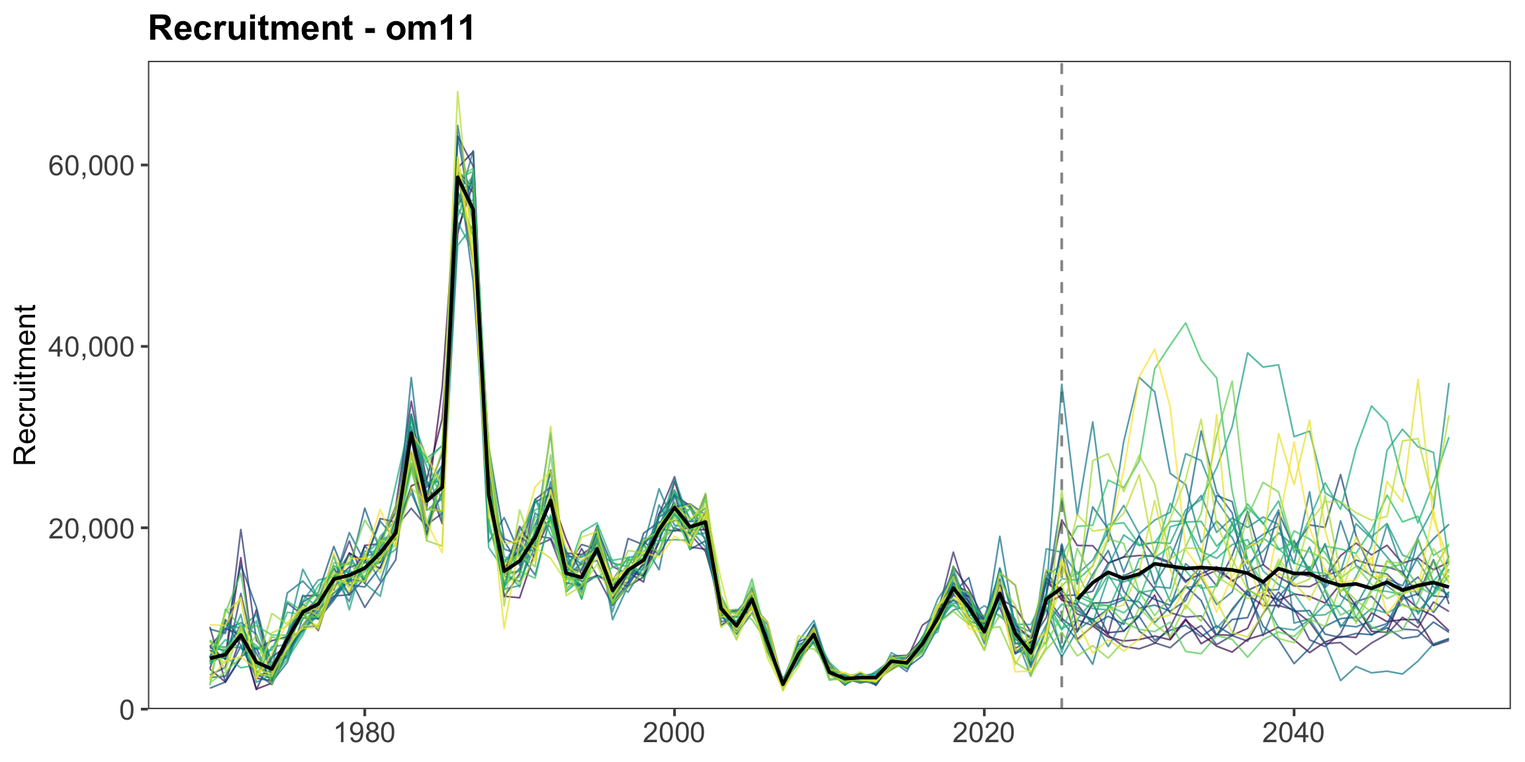
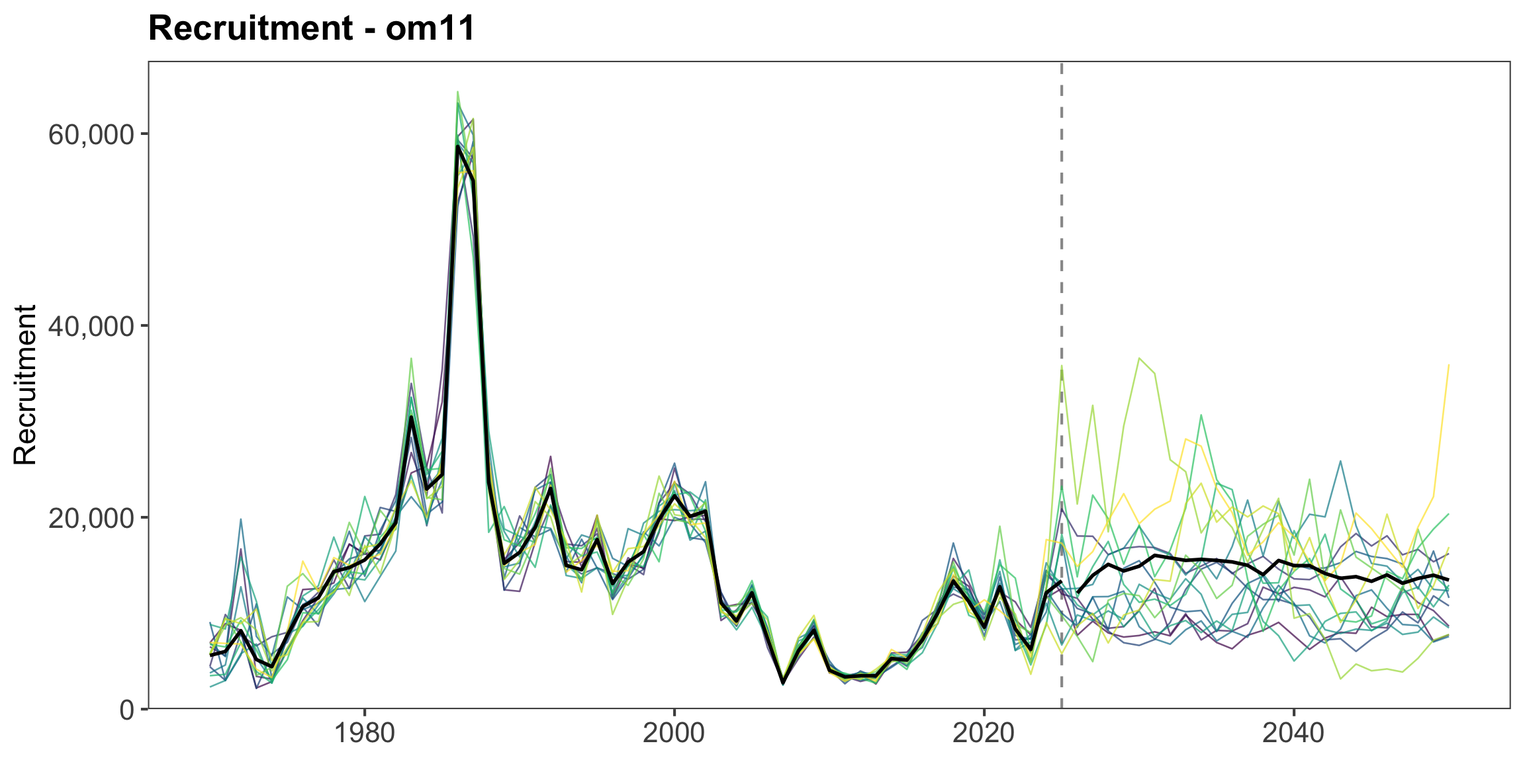
Use 15 recruitment worms in Paper 07

diff --git a/docs/SCW17-Paper-07-Projection-evaluations.html b/docs/SCW17-Paper-07-Projection-evaluations.html
@@ -634,17 +634,20 @@ Figure&nbsp;2: Historical exploitation metrics for the selected operating model.
 <div class="cell">
 <details class="code-fold">
 <summary>Show code</summary>
-<div class="code-copy-outer-scaffold"><div class="sourceCode cell-code" id="cb8"><pre class="sourceCode r code-with-copy"><code class="sourceCode r"><span id="cb8-1"><a href="#cb8-1" aria-hidden="true" tabindex="-1"></a><span class="fu">plot_qmd_recruitment</span>(rec_dt, rec_worms_dt, <span class="at">init_year=</span>INIT_YEAR,</span>
-<span id="cb8-2"><a href="#cb8-2" aria-hidden="true" tabindex="-1"></a>  <span class="at">final_year=</span>FINAL_YEAR, <span class="at">ref_om=</span>REF_OM)</span></code></pre></div><button title="Copy to Clipboard" class="code-copy-button"><i class="bi"></i></button></div>
+<div class="code-copy-outer-scaffold"><div class="sourceCode cell-code" id="cb8"><pre class="sourceCode r code-with-copy"><code class="sourceCode r"><span id="cb8-1"><a href="#cb8-1" aria-hidden="true" tabindex="-1"></a>rec_worm_plot_iters <span class="ot">&lt;-</span> <span class="fu">sort</span>(<span class="fu">unique</span>(rec_worms_dt<span class="sc">$</span>iter))[<span class="fu">seq_len</span>(<span class="fu">min</span>(<span class="dv">15</span>,</span>
+<span id="cb8-2"><a href="#cb8-2" aria-hidden="true" tabindex="-1"></a>  <span class="fu">length</span>(<span class="fu">unique</span>(rec_worms_dt<span class="sc">$</span>iter))))]</span>
+<span id="cb8-3"><a href="#cb8-3" aria-hidden="true" tabindex="-1"></a>rec_worms_plot_dt <span class="ot">&lt;-</span> <span class="fu">as.data.table</span>(rec_worms_dt)[iter <span class="sc">%in%</span> rec_worm_plot_iters]</span>
+<span id="cb8-4"><a href="#cb8-4" aria-hidden="true" tabindex="-1"></a><span class="fu">plot_qmd_recruitment</span>(rec_dt, rec_worms_plot_dt, <span class="at">init_year=</span>INIT_YEAR,</span>
+<span id="cb8-5"><a href="#cb8-5" aria-hidden="true" tabindex="-1"></a>  <span class="at">final_year=</span>FINAL_YEAR, <span class="at">ref_om=</span>REF_OM)</span></code></pre></div><button title="Copy to Clipboard" class="code-copy-button"><i class="bi"></i></button></div>
 </details>
 <div class="cell-output-display">
 <div id="fig-recruitment" class="quarto-float quarto-figure quarto-figure-center anchored">
 <figure class="quarto-float quarto-float-fig figure">
 <div aria-describedby="fig-recruitment-caption-0ceaefa1-69ba-4598-a22c-09a6ac19f8ca">
-<a href="SCW17-Paper-07-Projection-evaluations_files/figure-html/fig-recruitment-1.png" class="lightbox" data-gallery="quarto-lightbox-gallery-3" title="Figure&nbsp;3: Historical and future recruitment for the selected operating model. The future portion uses the F = 0 projection. Colored lines show 30 sampled MCMC draws."><img src="SCW17-Paper-07-Projection-evaluations_files/figure-html/fig-recruitment-1.png" class="img-fluid figure-img" width="1152"></a>
+<a href="SCW17-Paper-07-Projection-evaluations_files/figure-html/fig-recruitment-1.png" class="lightbox" data-gallery="quarto-lightbox-gallery-3" title="Figure&nbsp;3: Historical and future recruitment for the selected operating model. The future portion uses the F = 0 projection. Colored lines show 15 sampled MCMC draws."><img src="SCW17-Paper-07-Projection-evaluations_files/figure-html/fig-recruitment-1.png" class="img-fluid figure-img" width="1152"></a>
 </div>
 <figcaption class="quarto-float-caption-bottom quarto-float-caption quarto-float-fig" id="fig-recruitment-caption-0ceaefa1-69ba-4598-a22c-09a6ac19f8ca">
-Figure&nbsp;3: Historical and future recruitment for the selected operating model. The future portion uses the F = 0 projection. Colored lines show 30 sampled MCMC draws.
+Figure&nbsp;3: Historical and future recruitment for the selected operating model. The future portion uses the F = 0 projection. Colored lines show 15 sampled MCMC draws.
 </figcaption>
 </figure>
 </div>
@@ -1898,138 +1901,141 @@ Figure&nbsp;10: Sensitivity of projections to named historical selectivity block
 <span id="cb18-555"><a href="#cb18-555" aria-hidden="true" tabindex="-1"></a></span>
 <span id="cb18-558"><a href="#cb18-558" aria-hidden="true" tabindex="-1"></a><span class="in">```{r}</span></span>
 <span id="cb18-559"><a href="#cb18-559" aria-hidden="true" tabindex="-1"></a><span class="co">#| label: fig-recruitment</span></span>
-<span id="cb18-560"><a href="#cb18-560" aria-hidden="true" tabindex="-1"></a><span class="co">#| fig-cap: !expr paste("Historical and future recruitment for the selected operating model. The future portion uses the F = 0 projection. Colored lines show", length(unique(rec_worms_dt$iter)), "sampled MCMC draws.")</span></span>
+<span id="cb18-560"><a href="#cb18-560" aria-hidden="true" tabindex="-1"></a><span class="co">#| fig-cap: !expr paste("Historical and future recruitment for the selected operating model. The future portion uses the F = 0 projection. Colored lines show", length(unique(rec_worms_plot_dt$iter)), "sampled MCMC draws.")</span></span>
 <span id="cb18-561"><a href="#cb18-561" aria-hidden="true" tabindex="-1"></a><span class="co">#| fig-width: 12</span></span>
 <span id="cb18-562"><a href="#cb18-562" aria-hidden="true" tabindex="-1"></a><span class="co">#| fig-height: 6</span></span>
-<span id="cb18-563"><a href="#cb18-563" aria-hidden="true" tabindex="-1"></a><span class="fu">plot_qmd_recruitment</span>(rec_dt, rec_worms_dt, <span class="at">init_year=</span>INIT_YEAR,</span>
-<span id="cb18-564"><a href="#cb18-564" aria-hidden="true" tabindex="-1"></a>  <span class="at">final_year=</span>FINAL_YEAR, <span class="at">ref_om=</span>REF_OM)</span>
-<span id="cb18-565"><a href="#cb18-565" aria-hidden="true" tabindex="-1"></a><span class="in">```</span></span>
-<span id="cb18-566"><a href="#cb18-566" aria-hidden="true" tabindex="-1"></a></span>
-<span id="cb18-567"><a href="#cb18-567" aria-hidden="true" tabindex="-1"></a><span class="fu"># Future Fishing Pattern Scenarios</span></span>
-<span id="cb18-568"><a href="#cb18-568" aria-hidden="true" tabindex="-1"></a></span>
-<span id="cb18-569"><a href="#cb18-569" aria-hidden="true" tabindex="-1"></a>The main projection comparison applies the fishing-pattern controls over the projection horizon.</span>
-<span id="cb18-570"><a href="#cb18-570" aria-hidden="true" tabindex="-1"></a>The plot shows median trajectories by scenario for the cached projection summaries, including spawning biomass, fishing mortality, and catch where available.</span>
+<span id="cb18-563"><a href="#cb18-563" aria-hidden="true" tabindex="-1"></a>rec_worm_plot_iters <span class="ot">&lt;-</span> <span class="fu">sort</span>(<span class="fu">unique</span>(rec_worms_dt<span class="sc">$</span>iter))[<span class="fu">seq_len</span>(<span class="fu">min</span>(<span class="dv">15</span>,</span>
+<span id="cb18-564"><a href="#cb18-564" aria-hidden="true" tabindex="-1"></a>  <span class="fu">length</span>(<span class="fu">unique</span>(rec_worms_dt<span class="sc">$</span>iter))))]</span>
+<span id="cb18-565"><a href="#cb18-565" aria-hidden="true" tabindex="-1"></a>rec_worms_plot_dt <span class="ot">&lt;-</span> <span class="fu">as.data.table</span>(rec_worms_dt)[iter <span class="sc">%in%</span> rec_worm_plot_iters]</span>
+<span id="cb18-566"><a href="#cb18-566" aria-hidden="true" tabindex="-1"></a><span class="fu">plot_qmd_recruitment</span>(rec_dt, rec_worms_plot_dt, <span class="at">init_year=</span>INIT_YEAR,</span>
+<span id="cb18-567"><a href="#cb18-567" aria-hidden="true" tabindex="-1"></a>  <span class="at">final_year=</span>FINAL_YEAR, <span class="at">ref_om=</span>REF_OM)</span>
+<span id="cb18-568"><a href="#cb18-568" aria-hidden="true" tabindex="-1"></a><span class="in">```</span></span>
+<span id="cb18-569"><a href="#cb18-569" aria-hidden="true" tabindex="-1"></a></span>
+<span id="cb18-570"><a href="#cb18-570" aria-hidden="true" tabindex="-1"></a><span class="fu"># Future Fishing Pattern Scenarios</span></span>
 <span id="cb18-571"><a href="#cb18-571" aria-hidden="true" tabindex="-1"></a></span>
-<span id="cb18-574"><a href="#cb18-574" aria-hidden="true" tabindex="-1"></a><span class="in">```{r}</span></span>
-<span id="cb18-575"><a href="#cb18-575" aria-hidden="true" tabindex="-1"></a><span class="co">#| label: fig-fixed-scenarios</span></span>
-<span id="cb18-576"><a href="#cb18-576" aria-hidden="true" tabindex="-1"></a><span class="co">#| fig-cap: !expr scenario_caption()</span></span>
-<span id="cb18-577"><a href="#cb18-577" aria-hidden="true" tabindex="-1"></a><span class="co">#| fig-width: 14</span></span>
-<span id="cb18-578"><a href="#cb18-578" aria-hidden="true" tabindex="-1"></a><span class="co">#| fig-height: 10</span></span>
-<span id="cb18-579"><a href="#cb18-579" aria-hidden="true" tabindex="-1"></a>futs_excluded <span class="ot">&lt;-</span> <span class="fu">median_fbar_exclusions</span>(</span>
-<span id="cb18-580"><a href="#cb18-580" aria-hidden="true" tabindex="-1"></a>  <span class="fu">as.data.table</span>(futs_dt)[year <span class="sc">&gt;</span> INIT_YEAR], <span class="st">"scenario"</span>)</span>
-<span id="cb18-581"><a href="#cb18-581" aria-hidden="true" tabindex="-1"></a>futs_plot_dt <span class="ot">&lt;-</span> <span class="fu">drop_group_stock</span>(futs_dt, futs_excluded, <span class="st">"scenario"</span>)</span>
-<span id="cb18-582"><a href="#cb18-582" aria-hidden="true" tabindex="-1"></a></span>
-<span id="cb18-583"><a href="#cb18-583" aria-hidden="true" tabindex="-1"></a><span class="fu">plot_qmd_scenarios</span>(futs_plot_dt, INIT_YEAR, sbmsy_ref, fmsy_ref,</span>
-<span id="cb18-584"><a href="#cb18-584" aria-hidden="true" tabindex="-1"></a>  <span class="at">final_year=</span>FINAL_YEAR, <span class="at">ref_om=</span>REF_OM)</span>
-<span id="cb18-585"><a href="#cb18-585" aria-hidden="true" tabindex="-1"></a><span class="in">```</span></span>
-<span id="cb18-586"><a href="#cb18-586" aria-hidden="true" tabindex="-1"></a></span>
-<span id="cb18-587"><a href="#cb18-587" aria-hidden="true" tabindex="-1"></a>The terminal-status plot shows the distribution of projected spawning biomass relative to SBMSY in the final projection year.</span>
-<span id="cb18-588"><a href="#cb18-588" aria-hidden="true" tabindex="-1"></a>This gives a compact comparison of scenario risk at the end of the projection horizon.</span>
+<span id="cb18-572"><a href="#cb18-572" aria-hidden="true" tabindex="-1"></a>The main projection comparison applies the fishing-pattern controls over the projection horizon.</span>
+<span id="cb18-573"><a href="#cb18-573" aria-hidden="true" tabindex="-1"></a>The plot shows median trajectories by scenario for the cached projection summaries, including spawning biomass, fishing mortality, and catch where available.</span>
+<span id="cb18-574"><a href="#cb18-574" aria-hidden="true" tabindex="-1"></a></span>
+<span id="cb18-577"><a href="#cb18-577" aria-hidden="true" tabindex="-1"></a><span class="in">```{r}</span></span>
+<span id="cb18-578"><a href="#cb18-578" aria-hidden="true" tabindex="-1"></a><span class="co">#| label: fig-fixed-scenarios</span></span>
+<span id="cb18-579"><a href="#cb18-579" aria-hidden="true" tabindex="-1"></a><span class="co">#| fig-cap: !expr scenario_caption()</span></span>
+<span id="cb18-580"><a href="#cb18-580" aria-hidden="true" tabindex="-1"></a><span class="co">#| fig-width: 14</span></span>
+<span id="cb18-581"><a href="#cb18-581" aria-hidden="true" tabindex="-1"></a><span class="co">#| fig-height: 10</span></span>
+<span id="cb18-582"><a href="#cb18-582" aria-hidden="true" tabindex="-1"></a>futs_excluded <span class="ot">&lt;-</span> <span class="fu">median_fbar_exclusions</span>(</span>
+<span id="cb18-583"><a href="#cb18-583" aria-hidden="true" tabindex="-1"></a>  <span class="fu">as.data.table</span>(futs_dt)[year <span class="sc">&gt;</span> INIT_YEAR], <span class="st">"scenario"</span>)</span>
+<span id="cb18-584"><a href="#cb18-584" aria-hidden="true" tabindex="-1"></a>futs_plot_dt <span class="ot">&lt;-</span> <span class="fu">drop_group_stock</span>(futs_dt, futs_excluded, <span class="st">"scenario"</span>)</span>
+<span id="cb18-585"><a href="#cb18-585" aria-hidden="true" tabindex="-1"></a></span>
+<span id="cb18-586"><a href="#cb18-586" aria-hidden="true" tabindex="-1"></a><span class="fu">plot_qmd_scenarios</span>(futs_plot_dt, INIT_YEAR, sbmsy_ref, fmsy_ref,</span>
+<span id="cb18-587"><a href="#cb18-587" aria-hidden="true" tabindex="-1"></a>  <span class="at">final_year=</span>FINAL_YEAR, <span class="at">ref_om=</span>REF_OM)</span>
+<span id="cb18-588"><a href="#cb18-588" aria-hidden="true" tabindex="-1"></a><span class="in">```</span></span>
 <span id="cb18-589"><a href="#cb18-589" aria-hidden="true" tabindex="-1"></a></span>
-<span id="cb18-592"><a href="#cb18-592" aria-hidden="true" tabindex="-1"></a><span class="in">```{r}</span></span>
-<span id="cb18-593"><a href="#cb18-593" aria-hidden="true" tabindex="-1"></a><span class="co">#| label: fig-terminal-status</span></span>
-<span id="cb18-594"><a href="#cb18-594" aria-hidden="true" tabindex="-1"></a><span class="co">#| fig-cap: !expr paste("Distribution of SSB / SBMSY in", FINAL_YEAR, "under each projection scenario.", N_ITER, "iterations. The dotted line marks SBMSY.", filter_note)</span></span>
-<span id="cb18-595"><a href="#cb18-595" aria-hidden="true" tabindex="-1"></a><span class="co">#| fig-width: 12</span></span>
-<span id="cb18-596"><a href="#cb18-596" aria-hidden="true" tabindex="-1"></a><span class="co">#| fig-height: 6</span></span>
-<span id="cb18-597"><a href="#cb18-597" aria-hidden="true" tabindex="-1"></a>status_plot_dt <span class="ot">&lt;-</span> <span class="fu">drop_fbar_iterations</span>(status_dt, futs_fbar_max_dt, <span class="st">"scenario"</span>)</span>
-<span id="cb18-598"><a href="#cb18-598" aria-hidden="true" tabindex="-1"></a><span class="fu">plot_qmd_status</span>(status_plot_dt, FINAL_YEAR, <span class="at">n_iter=</span>N_ITER, <span class="at">ref_om=</span>REF_OM)</span>
-<span id="cb18-599"><a href="#cb18-599" aria-hidden="true" tabindex="-1"></a><span class="in">```</span></span>
-<span id="cb18-600"><a href="#cb18-600" aria-hidden="true" tabindex="-1"></a></span>
-<span id="cb18-603"><a href="#cb18-603" aria-hidden="true" tabindex="-1"></a><span class="in">```{r}</span></span>
-<span id="cb18-604"><a href="#cb18-604" aria-hidden="true" tabindex="-1"></a><span class="co">#| label: fig-terminal-tradeoff</span></span>
-<span id="cb18-605"><a href="#cb18-605" aria-hidden="true" tabindex="-1"></a><span class="co">#| fig-cap: !expr paste("Median catch and SSB / SBMSY in", FINAL_YEAR, "under each projection scenario. Points show scenario medians; bars show 90% intervals. The dotted line marks SBMSY.", filter_note)</span></span>
-<span id="cb18-606"><a href="#cb18-606" aria-hidden="true" tabindex="-1"></a><span class="co">#| fig-width: 10</span></span>
-<span id="cb18-607"><a href="#cb18-607" aria-hidden="true" tabindex="-1"></a><span class="co">#| fig-height: 7</span></span>
-<span id="cb18-608"><a href="#cb18-608" aria-hidden="true" tabindex="-1"></a><span class="fu">plot_qmd_tradeoff</span>(status_plot_dt, FINAL_YEAR, <span class="at">ref_om=</span>REF_OM)</span>
-<span id="cb18-609"><a href="#cb18-609" aria-hidden="true" tabindex="-1"></a><span class="in">```</span></span>
-<span id="cb18-610"><a href="#cb18-610" aria-hidden="true" tabindex="-1"></a></span>
-<span id="cb18-613"><a href="#cb18-613" aria-hidden="true" tabindex="-1"></a><span class="in">```{r}</span></span>
-<span id="cb18-614"><a href="#cb18-614" aria-hidden="true" tabindex="-1"></a><span class="co">#| label: fig-terminal-tradeoff-ssb</span></span>
-<span id="cb18-615"><a href="#cb18-615" aria-hidden="true" tabindex="-1"></a><span class="co">#| fig-cap: !expr paste("Median catch and SSB in", FINAL_YEAR, "under each projection scenario. Points show scenario medians; bars show 90% intervals. The dotted line marks SBMSY.", filter_note)</span></span>
-<span id="cb18-616"><a href="#cb18-616" aria-hidden="true" tabindex="-1"></a><span class="co">#| fig-width: 10</span></span>
-<span id="cb18-617"><a href="#cb18-617" aria-hidden="true" tabindex="-1"></a><span class="co">#| fig-height: 7</span></span>
-<span id="cb18-618"><a href="#cb18-618" aria-hidden="true" tabindex="-1"></a><span class="fu">plot_qmd_tradeoff</span>(status_plot_dt, FINAL_YEAR, <span class="at">ref_om=</span>REF_OM,</span>
-<span id="cb18-619"><a href="#cb18-619" aria-hidden="true" tabindex="-1"></a>  <span class="at">x_metric=</span><span class="st">"ssb"</span>)</span>
-<span id="cb18-620"><a href="#cb18-620" aria-hidden="true" tabindex="-1"></a><span class="in">```</span></span>
-<span id="cb18-621"><a href="#cb18-621" aria-hidden="true" tabindex="-1"></a></span>
-<span id="cb18-624"><a href="#cb18-624" aria-hidden="true" tabindex="-1"></a><span class="in">```{r}</span></span>
-<span id="cb18-625"><a href="#cb18-625" aria-hidden="true" tabindex="-1"></a><span class="co">#| label: fig-catch-2026</span></span>
-<span id="cb18-626"><a href="#cb18-626" aria-hidden="true" tabindex="-1"></a><span class="co">#| fig-cap: !expr paste("Distribution of catch in 2026 under each projection scenario.", N_ITER, "iterations.", filter_note)</span></span>
-<span id="cb18-627"><a href="#cb18-627" aria-hidden="true" tabindex="-1"></a><span class="co">#| fig-width: 12</span></span>
-<span id="cb18-628"><a href="#cb18-628" aria-hidden="true" tabindex="-1"></a><span class="co">#| fig-height: 6</span></span>
-<span id="cb18-629"><a href="#cb18-629" aria-hidden="true" tabindex="-1"></a>catch_2026_plot_dt <span class="ot">&lt;-</span> <span class="fu">drop_fbar_iterations</span>(catch_2026_dt,</span>
-<span id="cb18-630"><a href="#cb18-630" aria-hidden="true" tabindex="-1"></a>  futs_fbar_max_dt, <span class="st">"scenario"</span>)</span>
-<span id="cb18-631"><a href="#cb18-631" aria-hidden="true" tabindex="-1"></a><span class="fu">plot_qmd_catch_distribution</span>(catch_2026_plot_dt, <span class="dv">2026</span>,</span>
-<span id="cb18-632"><a href="#cb18-632" aria-hidden="true" tabindex="-1"></a>  <span class="at">n_iter=</span>N_ITER, <span class="at">ref_om=</span>REF_OM)</span>
-<span id="cb18-633"><a href="#cb18-633" aria-hidden="true" tabindex="-1"></a><span class="in">```</span></span>
-<span id="cb18-634"><a href="#cb18-634" aria-hidden="true" tabindex="-1"></a></span>
-<span id="cb18-635"><a href="#cb18-635" aria-hidden="true" tabindex="-1"></a><span class="fu"># Selectivity Window Sensitivity</span></span>
-<span id="cb18-636"><a href="#cb18-636" aria-hidden="true" tabindex="-1"></a></span>
-<span id="cb18-637"><a href="#cb18-637" aria-hidden="true" tabindex="-1"></a>The selectivity-window sensitivity analysis projects at FMSY while replacing future selectivity with averages over alternative terminal-year windows.</span>
-<span id="cb18-638"><a href="#cb18-638" aria-hidden="true" tabindex="-1"></a>For example, a three-year window uses the mean selectivity pattern from the final three historical years.</span>
+<span id="cb18-590"><a href="#cb18-590" aria-hidden="true" tabindex="-1"></a>The terminal-status plot shows the distribution of projected spawning biomass relative to SBMSY in the final projection year.</span>
+<span id="cb18-591"><a href="#cb18-591" aria-hidden="true" tabindex="-1"></a>This gives a compact comparison of scenario risk at the end of the projection horizon.</span>
+<span id="cb18-592"><a href="#cb18-592" aria-hidden="true" tabindex="-1"></a></span>
+<span id="cb18-595"><a href="#cb18-595" aria-hidden="true" tabindex="-1"></a><span class="in">```{r}</span></span>
+<span id="cb18-596"><a href="#cb18-596" aria-hidden="true" tabindex="-1"></a><span class="co">#| label: fig-terminal-status</span></span>
+<span id="cb18-597"><a href="#cb18-597" aria-hidden="true" tabindex="-1"></a><span class="co">#| fig-cap: !expr paste("Distribution of SSB / SBMSY in", FINAL_YEAR, "under each projection scenario.", N_ITER, "iterations. The dotted line marks SBMSY.", filter_note)</span></span>
+<span id="cb18-598"><a href="#cb18-598" aria-hidden="true" tabindex="-1"></a><span class="co">#| fig-width: 12</span></span>
+<span id="cb18-599"><a href="#cb18-599" aria-hidden="true" tabindex="-1"></a><span class="co">#| fig-height: 6</span></span>
+<span id="cb18-600"><a href="#cb18-600" aria-hidden="true" tabindex="-1"></a>status_plot_dt <span class="ot">&lt;-</span> <span class="fu">drop_fbar_iterations</span>(status_dt, futs_fbar_max_dt, <span class="st">"scenario"</span>)</span>
+<span id="cb18-601"><a href="#cb18-601" aria-hidden="true" tabindex="-1"></a><span class="fu">plot_qmd_status</span>(status_plot_dt, FINAL_YEAR, <span class="at">n_iter=</span>N_ITER, <span class="at">ref_om=</span>REF_OM)</span>
+<span id="cb18-602"><a href="#cb18-602" aria-hidden="true" tabindex="-1"></a><span class="in">```</span></span>
+<span id="cb18-603"><a href="#cb18-603" aria-hidden="true" tabindex="-1"></a></span>
+<span id="cb18-606"><a href="#cb18-606" aria-hidden="true" tabindex="-1"></a><span class="in">```{r}</span></span>
+<span id="cb18-607"><a href="#cb18-607" aria-hidden="true" tabindex="-1"></a><span class="co">#| label: fig-terminal-tradeoff</span></span>
+<span id="cb18-608"><a href="#cb18-608" aria-hidden="true" tabindex="-1"></a><span class="co">#| fig-cap: !expr paste("Median catch and SSB / SBMSY in", FINAL_YEAR, "under each projection scenario. Points show scenario medians; bars show 90% intervals. The dotted line marks SBMSY.", filter_note)</span></span>
+<span id="cb18-609"><a href="#cb18-609" aria-hidden="true" tabindex="-1"></a><span class="co">#| fig-width: 10</span></span>
+<span id="cb18-610"><a href="#cb18-610" aria-hidden="true" tabindex="-1"></a><span class="co">#| fig-height: 7</span></span>
+<span id="cb18-611"><a href="#cb18-611" aria-hidden="true" tabindex="-1"></a><span class="fu">plot_qmd_tradeoff</span>(status_plot_dt, FINAL_YEAR, <span class="at">ref_om=</span>REF_OM)</span>
+<span id="cb18-612"><a href="#cb18-612" aria-hidden="true" tabindex="-1"></a><span class="in">```</span></span>
+<span id="cb18-613"><a href="#cb18-613" aria-hidden="true" tabindex="-1"></a></span>
+<span id="cb18-616"><a href="#cb18-616" aria-hidden="true" tabindex="-1"></a><span class="in">```{r}</span></span>
+<span id="cb18-617"><a href="#cb18-617" aria-hidden="true" tabindex="-1"></a><span class="co">#| label: fig-terminal-tradeoff-ssb</span></span>
+<span id="cb18-618"><a href="#cb18-618" aria-hidden="true" tabindex="-1"></a><span class="co">#| fig-cap: !expr paste("Median catch and SSB in", FINAL_YEAR, "under each projection scenario. Points show scenario medians; bars show 90% intervals. The dotted line marks SBMSY.", filter_note)</span></span>
+<span id="cb18-619"><a href="#cb18-619" aria-hidden="true" tabindex="-1"></a><span class="co">#| fig-width: 10</span></span>
+<span id="cb18-620"><a href="#cb18-620" aria-hidden="true" tabindex="-1"></a><span class="co">#| fig-height: 7</span></span>
+<span id="cb18-621"><a href="#cb18-621" aria-hidden="true" tabindex="-1"></a><span class="fu">plot_qmd_tradeoff</span>(status_plot_dt, FINAL_YEAR, <span class="at">ref_om=</span>REF_OM,</span>
+<span id="cb18-622"><a href="#cb18-622" aria-hidden="true" tabindex="-1"></a>  <span class="at">x_metric=</span><span class="st">"ssb"</span>)</span>
+<span id="cb18-623"><a href="#cb18-623" aria-hidden="true" tabindex="-1"></a><span class="in">```</span></span>
+<span id="cb18-624"><a href="#cb18-624" aria-hidden="true" tabindex="-1"></a></span>
+<span id="cb18-627"><a href="#cb18-627" aria-hidden="true" tabindex="-1"></a><span class="in">```{r}</span></span>
+<span id="cb18-628"><a href="#cb18-628" aria-hidden="true" tabindex="-1"></a><span class="co">#| label: fig-catch-2026</span></span>
+<span id="cb18-629"><a href="#cb18-629" aria-hidden="true" tabindex="-1"></a><span class="co">#| fig-cap: !expr paste("Distribution of catch in 2026 under each projection scenario.", N_ITER, "iterations.", filter_note)</span></span>
+<span id="cb18-630"><a href="#cb18-630" aria-hidden="true" tabindex="-1"></a><span class="co">#| fig-width: 12</span></span>
+<span id="cb18-631"><a href="#cb18-631" aria-hidden="true" tabindex="-1"></a><span class="co">#| fig-height: 6</span></span>
+<span id="cb18-632"><a href="#cb18-632" aria-hidden="true" tabindex="-1"></a>catch_2026_plot_dt <span class="ot">&lt;-</span> <span class="fu">drop_fbar_iterations</span>(catch_2026_dt,</span>
+<span id="cb18-633"><a href="#cb18-633" aria-hidden="true" tabindex="-1"></a>  futs_fbar_max_dt, <span class="st">"scenario"</span>)</span>
+<span id="cb18-634"><a href="#cb18-634" aria-hidden="true" tabindex="-1"></a><span class="fu">plot_qmd_catch_distribution</span>(catch_2026_plot_dt, <span class="dv">2026</span>,</span>
+<span id="cb18-635"><a href="#cb18-635" aria-hidden="true" tabindex="-1"></a>  <span class="at">n_iter=</span>N_ITER, <span class="at">ref_om=</span>REF_OM)</span>
+<span id="cb18-636"><a href="#cb18-636" aria-hidden="true" tabindex="-1"></a><span class="in">```</span></span>
+<span id="cb18-637"><a href="#cb18-637" aria-hidden="true" tabindex="-1"></a></span>
+<span id="cb18-638"><a href="#cb18-638" aria-hidden="true" tabindex="-1"></a><span class="fu"># Selectivity Window Sensitivity</span></span>
 <span id="cb18-639"><a href="#cb18-639" aria-hidden="true" tabindex="-1"></a></span>
-<span id="cb18-642"><a href="#cb18-642" aria-hidden="true" tabindex="-1"></a><span class="in">```{r}</span></span>
-<span id="cb18-643"><a href="#cb18-643" aria-hidden="true" tabindex="-1"></a><span class="co">#| label: tbl-selectivity-windows</span></span>
-<span id="cb18-644"><a href="#cb18-644" aria-hidden="true" tabindex="-1"></a><span class="co">#| tbl-cap: "Terminal-year selectivity averaging windows."</span></span>
-<span id="cb18-645"><a href="#cb18-645" aria-hidden="true" tabindex="-1"></a>window_tbl <span class="ot">&lt;-</span> <span class="fu">data.frame</span>(</span>
-<span id="cb18-646"><a href="#cb18-646" aria-hidden="true" tabindex="-1"></a>  <span class="at">window_years =</span> SELEX_WINDOWS,</span>
-<span id="cb18-647"><a href="#cb18-647" aria-hidden="true" tabindex="-1"></a>  <span class="at">description =</span> <span class="fu">paste</span>(<span class="st">"Mean selectivity over the final"</span>, SELEX_WINDOWS, <span class="st">"historical years"</span>)</span>
-<span id="cb18-648"><a href="#cb18-648" aria-hidden="true" tabindex="-1"></a>)</span>
-<span id="cb18-649"><a href="#cb18-649" aria-hidden="true" tabindex="-1"></a></span>
-<span id="cb18-650"><a href="#cb18-650" aria-hidden="true" tabindex="-1"></a><span class="fu">kable</span>(window_tbl, <span class="at">col.names=</span><span class="fu">c</span>(<span class="st">"Window (years)"</span>, <span class="st">"Projection assumption"</span>))</span>
-<span id="cb18-651"><a href="#cb18-651" aria-hidden="true" tabindex="-1"></a><span class="in">```</span></span>
+<span id="cb18-640"><a href="#cb18-640" aria-hidden="true" tabindex="-1"></a>The selectivity-window sensitivity analysis projects at FMSY while replacing future selectivity with averages over alternative terminal-year windows.</span>
+<span id="cb18-641"><a href="#cb18-641" aria-hidden="true" tabindex="-1"></a>For example, a three-year window uses the mean selectivity pattern from the final three historical years.</span>
+<span id="cb18-642"><a href="#cb18-642" aria-hidden="true" tabindex="-1"></a></span>
+<span id="cb18-645"><a href="#cb18-645" aria-hidden="true" tabindex="-1"></a><span class="in">```{r}</span></span>
+<span id="cb18-646"><a href="#cb18-646" aria-hidden="true" tabindex="-1"></a><span class="co">#| label: tbl-selectivity-windows</span></span>
+<span id="cb18-647"><a href="#cb18-647" aria-hidden="true" tabindex="-1"></a><span class="co">#| tbl-cap: "Terminal-year selectivity averaging windows."</span></span>
+<span id="cb18-648"><a href="#cb18-648" aria-hidden="true" tabindex="-1"></a>window_tbl <span class="ot">&lt;-</span> <span class="fu">data.frame</span>(</span>
+<span id="cb18-649"><a href="#cb18-649" aria-hidden="true" tabindex="-1"></a>  <span class="at">window_years =</span> SELEX_WINDOWS,</span>
+<span id="cb18-650"><a href="#cb18-650" aria-hidden="true" tabindex="-1"></a>  <span class="at">description =</span> <span class="fu">paste</span>(<span class="st">"Mean selectivity over the final"</span>, SELEX_WINDOWS, <span class="st">"historical years"</span>)</span>
+<span id="cb18-651"><a href="#cb18-651" aria-hidden="true" tabindex="-1"></a>)</span>
 <span id="cb18-652"><a href="#cb18-652" aria-hidden="true" tabindex="-1"></a></span>
-<span id="cb18-655"><a href="#cb18-655" aria-hidden="true" tabindex="-1"></a><span class="in">```{r}</span></span>
-<span id="cb18-656"><a href="#cb18-656" aria-hidden="true" tabindex="-1"></a><span class="co">#| label: fig-selectivity-window-sensitivity</span></span>
-<span id="cb18-657"><a href="#cb18-657" aria-hidden="true" tabindex="-1"></a><span class="co">#| fig-cap: !expr sensitivity_caption("Sensitivity of projections to the terminal-year selectivity averaging window.")</span></span>
-<span id="cb18-658"><a href="#cb18-658" aria-hidden="true" tabindex="-1"></a><span class="co">#| fig-width: 14</span></span>
-<span id="cb18-659"><a href="#cb18-659" aria-hidden="true" tabindex="-1"></a><span class="co">#| fig-height: 8</span></span>
-<span id="cb18-660"><a href="#cb18-660" aria-hidden="true" tabindex="-1"></a>selex_excluded <span class="ot">&lt;-</span> selex_fbar_max_dt[</span>
-<span id="cb18-661"><a href="#cb18-661" aria-hidden="true" tabindex="-1"></a>  , .(<span class="at">max_median_fbar=</span><span class="fu">median</span>(max_fbar, <span class="at">na.rm=</span><span class="cn">TRUE</span>)),</span>
-<span id="cb18-662"><a href="#cb18-662" aria-hidden="true" tabindex="-1"></a>  by<span class="ot">=</span>.(window, stock)][max_median_fbar <span class="sc">&gt;</span> FBAR_MAX]</span>
-<span id="cb18-663"><a href="#cb18-663" aria-hidden="true" tabindex="-1"></a>selex_plot_dt <span class="ot">&lt;-</span> <span class="fu">drop_group_stock</span>(selex_dt, selex_excluded, <span class="st">"window"</span>)</span>
-<span id="cb18-664"><a href="#cb18-664" aria-hidden="true" tabindex="-1"></a></span>
-<span id="cb18-665"><a href="#cb18-665" aria-hidden="true" tabindex="-1"></a><span class="fu">plot_qmd_sensitivity</span>(selex_plot_dt, <span class="at">group_col=</span><span class="st">"window"</span>, <span class="at">group_lab=</span><span class="st">"Avg. years"</span>,</span>
-<span id="cb18-666"><a href="#cb18-666" aria-hidden="true" tabindex="-1"></a>  <span class="at">init_year=</span>INIT_YEAR, <span class="at">sbmsy_ref=</span>sbmsy_ref, <span class="at">fmsy_ref=</span>fmsy_ref,</span>
-<span id="cb18-667"><a href="#cb18-667" aria-hidden="true" tabindex="-1"></a>  <span class="at">ref_om=</span>REF_OM,</span>
-<span id="cb18-668"><a href="#cb18-668" aria-hidden="true" tabindex="-1"></a>  <span class="at">title_prefix=</span><span class="st">"Selectivity averaging window sensitivity"</span>)</span>
-<span id="cb18-669"><a href="#cb18-669" aria-hidden="true" tabindex="-1"></a><span class="in">```</span></span>
-<span id="cb18-670"><a href="#cb18-670" aria-hidden="true" tabindex="-1"></a></span>
-<span id="cb18-671"><a href="#cb18-671" aria-hidden="true" tabindex="-1"></a><span class="fu"># Selectivity Block Sensitivity</span></span>
-<span id="cb18-672"><a href="#cb18-672" aria-hidden="true" tabindex="-1"></a></span>
-<span id="cb18-673"><a href="#cb18-673" aria-hidden="true" tabindex="-1"></a>The named-block sensitivity analysis is similar to the rolling-window analysis, but the averaged selectivity pattern comes from specified historical year blocks.</span>
-<span id="cb18-674"><a href="#cb18-674" aria-hidden="true" tabindex="-1"></a>This is useful when historical periods represent different fishery or stock-selectivity regimes.</span>
+<span id="cb18-653"><a href="#cb18-653" aria-hidden="true" tabindex="-1"></a><span class="fu">kable</span>(window_tbl, <span class="at">col.names=</span><span class="fu">c</span>(<span class="st">"Window (years)"</span>, <span class="st">"Projection assumption"</span>))</span>
+<span id="cb18-654"><a href="#cb18-654" aria-hidden="true" tabindex="-1"></a><span class="in">```</span></span>
+<span id="cb18-655"><a href="#cb18-655" aria-hidden="true" tabindex="-1"></a></span>
+<span id="cb18-658"><a href="#cb18-658" aria-hidden="true" tabindex="-1"></a><span class="in">```{r}</span></span>
+<span id="cb18-659"><a href="#cb18-659" aria-hidden="true" tabindex="-1"></a><span class="co">#| label: fig-selectivity-window-sensitivity</span></span>
+<span id="cb18-660"><a href="#cb18-660" aria-hidden="true" tabindex="-1"></a><span class="co">#| fig-cap: !expr sensitivity_caption("Sensitivity of projections to the terminal-year selectivity averaging window.")</span></span>
+<span id="cb18-661"><a href="#cb18-661" aria-hidden="true" tabindex="-1"></a><span class="co">#| fig-width: 14</span></span>
+<span id="cb18-662"><a href="#cb18-662" aria-hidden="true" tabindex="-1"></a><span class="co">#| fig-height: 8</span></span>
+<span id="cb18-663"><a href="#cb18-663" aria-hidden="true" tabindex="-1"></a>selex_excluded <span class="ot">&lt;-</span> selex_fbar_max_dt[</span>
+<span id="cb18-664"><a href="#cb18-664" aria-hidden="true" tabindex="-1"></a>  , .(<span class="at">max_median_fbar=</span><span class="fu">median</span>(max_fbar, <span class="at">na.rm=</span><span class="cn">TRUE</span>)),</span>
+<span id="cb18-665"><a href="#cb18-665" aria-hidden="true" tabindex="-1"></a>  by<span class="ot">=</span>.(window, stock)][max_median_fbar <span class="sc">&gt;</span> FBAR_MAX]</span>
+<span id="cb18-666"><a href="#cb18-666" aria-hidden="true" tabindex="-1"></a>selex_plot_dt <span class="ot">&lt;-</span> <span class="fu">drop_group_stock</span>(selex_dt, selex_excluded, <span class="st">"window"</span>)</span>
+<span id="cb18-667"><a href="#cb18-667" aria-hidden="true" tabindex="-1"></a></span>
+<span id="cb18-668"><a href="#cb18-668" aria-hidden="true" tabindex="-1"></a><span class="fu">plot_qmd_sensitivity</span>(selex_plot_dt, <span class="at">group_col=</span><span class="st">"window"</span>, <span class="at">group_lab=</span><span class="st">"Avg. years"</span>,</span>
+<span id="cb18-669"><a href="#cb18-669" aria-hidden="true" tabindex="-1"></a>  <span class="at">init_year=</span>INIT_YEAR, <span class="at">sbmsy_ref=</span>sbmsy_ref, <span class="at">fmsy_ref=</span>fmsy_ref,</span>
+<span id="cb18-670"><a href="#cb18-670" aria-hidden="true" tabindex="-1"></a>  <span class="at">ref_om=</span>REF_OM,</span>
+<span id="cb18-671"><a href="#cb18-671" aria-hidden="true" tabindex="-1"></a>  <span class="at">title_prefix=</span><span class="st">"Selectivity averaging window sensitivity"</span>)</span>
+<span id="cb18-672"><a href="#cb18-672" aria-hidden="true" tabindex="-1"></a><span class="in">```</span></span>
+<span id="cb18-673"><a href="#cb18-673" aria-hidden="true" tabindex="-1"></a></span>
+<span id="cb18-674"><a href="#cb18-674" aria-hidden="true" tabindex="-1"></a><span class="fu"># Selectivity Block Sensitivity</span></span>
 <span id="cb18-675"><a href="#cb18-675" aria-hidden="true" tabindex="-1"></a></span>
-<span id="cb18-678"><a href="#cb18-678" aria-hidden="true" tabindex="-1"></a><span class="in">```{r}</span></span>
-<span id="cb18-679"><a href="#cb18-679" aria-hidden="true" tabindex="-1"></a><span class="co">#| label: tbl-selectivity-blocks</span></span>
-<span id="cb18-680"><a href="#cb18-680" aria-hidden="true" tabindex="-1"></a><span class="co">#| tbl-cap: "Named historical selectivity blocks used for projection sensitivity."</span></span>
-<span id="cb18-681"><a href="#cb18-681" aria-hidden="true" tabindex="-1"></a><span class="fu">kable</span>(block_tbl, <span class="at">col.names=</span><span class="fu">c</span>(<span class="st">"Block"</span>, <span class="st">"Years"</span>))</span>
-<span id="cb18-682"><a href="#cb18-682" aria-hidden="true" tabindex="-1"></a><span class="in">```</span></span>
-<span id="cb18-683"><a href="#cb18-683" aria-hidden="true" tabindex="-1"></a></span>
-<span id="cb18-686"><a href="#cb18-686" aria-hidden="true" tabindex="-1"></a><span class="in">```{r}</span></span>
-<span id="cb18-687"><a href="#cb18-687" aria-hidden="true" tabindex="-1"></a><span class="co">#| label: fig-selectivity-block-sensitivity</span></span>
-<span id="cb18-688"><a href="#cb18-688" aria-hidden="true" tabindex="-1"></a><span class="co">#| fig-cap: !expr sensitivity_caption("Sensitivity of projections to named historical selectivity blocks.")</span></span>
-<span id="cb18-689"><a href="#cb18-689" aria-hidden="true" tabindex="-1"></a><span class="co">#| fig-width: 14</span></span>
-<span id="cb18-690"><a href="#cb18-690" aria-hidden="true" tabindex="-1"></a><span class="co">#| fig-height: 8</span></span>
-<span id="cb18-691"><a href="#cb18-691" aria-hidden="true" tabindex="-1"></a>block_excluded <span class="ot">&lt;-</span> block_fbar_max_dt[</span>
-<span id="cb18-692"><a href="#cb18-692" aria-hidden="true" tabindex="-1"></a>  , .(<span class="at">max_median_fbar=</span><span class="fu">median</span>(max_fbar, <span class="at">na.rm=</span><span class="cn">TRUE</span>)),</span>
-<span id="cb18-693"><a href="#cb18-693" aria-hidden="true" tabindex="-1"></a>  by<span class="ot">=</span>.(block, stock)][max_median_fbar <span class="sc">&gt;</span> FBAR_MAX]</span>
-<span id="cb18-694"><a href="#cb18-694" aria-hidden="true" tabindex="-1"></a>block_plot_dt <span class="ot">&lt;-</span> <span class="fu">drop_group_stock</span>(block_dt, block_excluded, <span class="st">"block"</span>)</span>
-<span id="cb18-695"><a href="#cb18-695" aria-hidden="true" tabindex="-1"></a></span>
-<span id="cb18-696"><a href="#cb18-696" aria-hidden="true" tabindex="-1"></a><span class="fu">plot_qmd_sensitivity</span>(block_plot_dt, <span class="at">group_col=</span><span class="st">"block"</span>, <span class="at">group_lab=</span><span class="st">"Selectivity block"</span>,</span>
-<span id="cb18-697"><a href="#cb18-697" aria-hidden="true" tabindex="-1"></a>  <span class="at">init_year=</span>INIT_YEAR, <span class="at">sbmsy_ref=</span>sbmsy_ref, <span class="at">fmsy_ref=</span>fmsy_ref,</span>
-<span id="cb18-698"><a href="#cb18-698" aria-hidden="true" tabindex="-1"></a>  <span class="at">ref_om=</span>REF_OM,</span>
-<span id="cb18-699"><a href="#cb18-699" aria-hidden="true" tabindex="-1"></a>  <span class="at">title_prefix=</span><span class="st">"Selectivity block sensitivity"</span>)</span>
-<span id="cb18-700"><a href="#cb18-700" aria-hidden="true" tabindex="-1"></a><span class="in">```</span></span>
-<span id="cb18-701"><a href="#cb18-701" aria-hidden="true" tabindex="-1"></a></span>
-<span id="cb18-702"><a href="#cb18-702" aria-hidden="true" tabindex="-1"></a><span class="fu"># Outputs</span></span>
-<span id="cb18-703"><a href="#cb18-703" aria-hidden="true" tabindex="-1"></a></span>
-<span id="cb18-704"><a href="#cb18-704" aria-hidden="true" tabindex="-1"></a>The cached projection workflow writes two main files:</span>
-<span id="cb18-705"><a href="#cb18-705" aria-hidden="true" tabindex="-1"></a></span>
-<span id="cb18-706"><a href="#cb18-706" aria-hidden="true" tabindex="-1"></a><span class="ss">- </span><span class="in">`report/projections/cache.rda`</span>, containing the settings, summary values, and plot objects used by this report; and</span>
-<span id="cb18-707"><a href="#cb18-707" aria-hidden="true" tabindex="-1"></a><span class="ss">- </span><span class="in">`report/projections/projections_report.html`</span>, the original HTML report built by <span class="in">`report_run_projections.R`</span>.</span>
+<span id="cb18-676"><a href="#cb18-676" aria-hidden="true" tabindex="-1"></a>The named-block sensitivity analysis is similar to the rolling-window analysis, but the averaged selectivity pattern comes from specified historical year blocks.</span>
+<span id="cb18-677"><a href="#cb18-677" aria-hidden="true" tabindex="-1"></a>This is useful when historical periods represent different fishery or stock-selectivity regimes.</span>
+<span id="cb18-678"><a href="#cb18-678" aria-hidden="true" tabindex="-1"></a></span>
+<span id="cb18-681"><a href="#cb18-681" aria-hidden="true" tabindex="-1"></a><span class="in">```{r}</span></span>
+<span id="cb18-682"><a href="#cb18-682" aria-hidden="true" tabindex="-1"></a><span class="co">#| label: tbl-selectivity-blocks</span></span>
+<span id="cb18-683"><a href="#cb18-683" aria-hidden="true" tabindex="-1"></a><span class="co">#| tbl-cap: "Named historical selectivity blocks used for projection sensitivity."</span></span>
+<span id="cb18-684"><a href="#cb18-684" aria-hidden="true" tabindex="-1"></a><span class="fu">kable</span>(block_tbl, <span class="at">col.names=</span><span class="fu">c</span>(<span class="st">"Block"</span>, <span class="st">"Years"</span>))</span>
+<span id="cb18-685"><a href="#cb18-685" aria-hidden="true" tabindex="-1"></a><span class="in">```</span></span>
+<span id="cb18-686"><a href="#cb18-686" aria-hidden="true" tabindex="-1"></a></span>
+<span id="cb18-689"><a href="#cb18-689" aria-hidden="true" tabindex="-1"></a><span class="in">```{r}</span></span>
+<span id="cb18-690"><a href="#cb18-690" aria-hidden="true" tabindex="-1"></a><span class="co">#| label: fig-selectivity-block-sensitivity</span></span>
+<span id="cb18-691"><a href="#cb18-691" aria-hidden="true" tabindex="-1"></a><span class="co">#| fig-cap: !expr sensitivity_caption("Sensitivity of projections to named historical selectivity blocks.")</span></span>
+<span id="cb18-692"><a href="#cb18-692" aria-hidden="true" tabindex="-1"></a><span class="co">#| fig-width: 14</span></span>
+<span id="cb18-693"><a href="#cb18-693" aria-hidden="true" tabindex="-1"></a><span class="co">#| fig-height: 8</span></span>
+<span id="cb18-694"><a href="#cb18-694" aria-hidden="true" tabindex="-1"></a>block_excluded <span class="ot">&lt;-</span> block_fbar_max_dt[</span>
+<span id="cb18-695"><a href="#cb18-695" aria-hidden="true" tabindex="-1"></a>  , .(<span class="at">max_median_fbar=</span><span class="fu">median</span>(max_fbar, <span class="at">na.rm=</span><span class="cn">TRUE</span>)),</span>
+<span id="cb18-696"><a href="#cb18-696" aria-hidden="true" tabindex="-1"></a>  by<span class="ot">=</span>.(block, stock)][max_median_fbar <span class="sc">&gt;</span> FBAR_MAX]</span>
+<span id="cb18-697"><a href="#cb18-697" aria-hidden="true" tabindex="-1"></a>block_plot_dt <span class="ot">&lt;-</span> <span class="fu">drop_group_stock</span>(block_dt, block_excluded, <span class="st">"block"</span>)</span>
+<span id="cb18-698"><a href="#cb18-698" aria-hidden="true" tabindex="-1"></a></span>
+<span id="cb18-699"><a href="#cb18-699" aria-hidden="true" tabindex="-1"></a><span class="fu">plot_qmd_sensitivity</span>(block_plot_dt, <span class="at">group_col=</span><span class="st">"block"</span>, <span class="at">group_lab=</span><span class="st">"Selectivity block"</span>,</span>
+<span id="cb18-700"><a href="#cb18-700" aria-hidden="true" tabindex="-1"></a>  <span class="at">init_year=</span>INIT_YEAR, <span class="at">sbmsy_ref=</span>sbmsy_ref, <span class="at">fmsy_ref=</span>fmsy_ref,</span>
+<span id="cb18-701"><a href="#cb18-701" aria-hidden="true" tabindex="-1"></a>  <span class="at">ref_om=</span>REF_OM,</span>
+<span id="cb18-702"><a href="#cb18-702" aria-hidden="true" tabindex="-1"></a>  <span class="at">title_prefix=</span><span class="st">"Selectivity block sensitivity"</span>)</span>
+<span id="cb18-703"><a href="#cb18-703" aria-hidden="true" tabindex="-1"></a><span class="in">```</span></span>
+<span id="cb18-704"><a href="#cb18-704" aria-hidden="true" tabindex="-1"></a></span>
+<span id="cb18-705"><a href="#cb18-705" aria-hidden="true" tabindex="-1"></a><span class="fu"># Outputs</span></span>
+<span id="cb18-706"><a href="#cb18-706" aria-hidden="true" tabindex="-1"></a></span>
+<span id="cb18-707"><a href="#cb18-707" aria-hidden="true" tabindex="-1"></a>The cached projection workflow writes two main files:</span>
 <span id="cb18-708"><a href="#cb18-708" aria-hidden="true" tabindex="-1"></a></span>
-<span id="cb18-709"><a href="#cb18-709" aria-hidden="true" tabindex="-1"></a>This Quarto document provides an editable report source for the same projection results.</span>
+<span id="cb18-709"><a href="#cb18-709" aria-hidden="true" tabindex="-1"></a><span class="ss">- </span><span class="in">`report/projections/cache.rda`</span>, containing the settings, summary values, and plot objects used by this report; and</span>
+<span id="cb18-710"><a href="#cb18-710" aria-hidden="true" tabindex="-1"></a><span class="ss">- </span><span class="in">`report/projections/projections_report.html`</span>, the original HTML report built by <span class="in">`report_run_projections.R`</span>.</span>
+<span id="cb18-711"><a href="#cb18-711" aria-hidden="true" tabindex="-1"></a></span>
+<span id="cb18-712"><a href="#cb18-712" aria-hidden="true" tabindex="-1"></a>This Quarto document provides an editable report source for the same projection results.</span>
 </code></pre></div><button title="Copy to Clipboard" class="code-copy-button" data-in-quarto-modal=""><i class="bi"></i></button></div>
 </div></div></div></div></div>
 </div> <!-- /content -->
